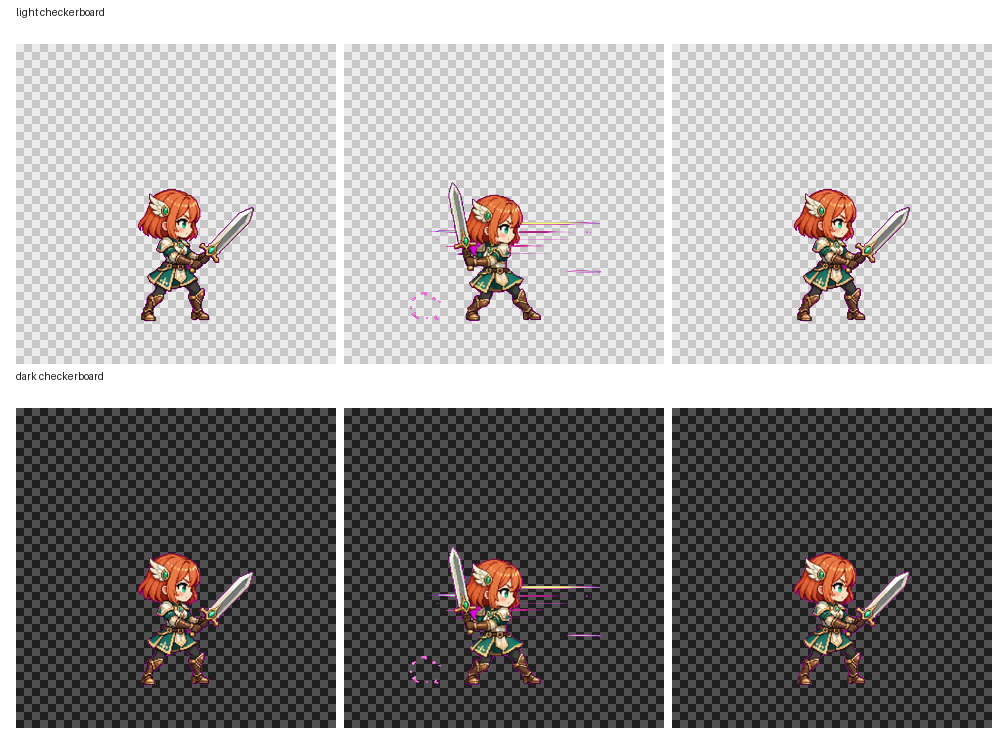
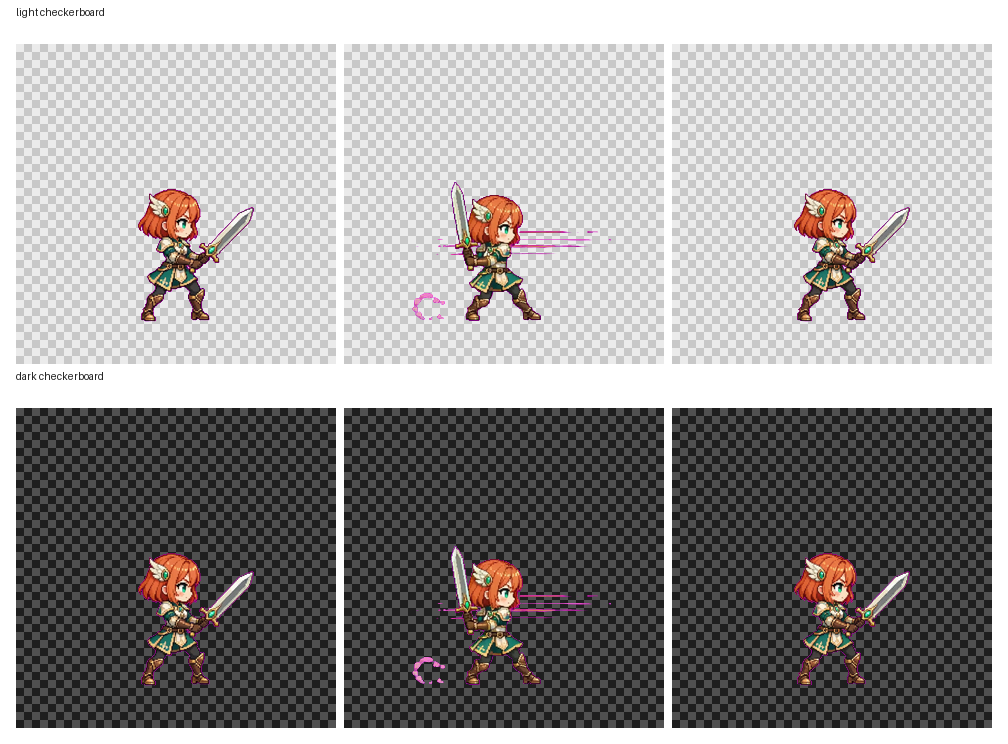
Docs & heroes: loop-passing chibi hero, pixel export demo, and Batch 2 flags
Updates EN/ZH-TW READMEs and SKILL.md with --loop, --keep-interior-key,
low-saturation behavior, --pixel/--sprite/--mp4, and real stdout samples.
Official final.gif masters remain unchanged.

diff --git a/README.md b/README.md
@@ -22,7 +22,7 @@ python scripts/vgs.py make <video> --out <new-dir>
 
 ![Transparent chibi dash GIF](examples/chibi-running-dash/hero.gif)
 
-The still is a local `vgs make` result on a light and a dark checkerboard. The GIF is transparent: the background you see on GitHub is the page color, not a studio floor. Magenta streaks in the attack frames are sword-trail effects, not leftover backdrop. Loop measurement on this source still fails the speed check; it is not claimed to be visually seamless.
+The still is a local `vgs make` result on a light and a dark checkerboard. The GIF is auto-trimmed to a natural return point (90 frames / 3.75 s), so `loop` measurement passes; visual motion and seamlessness still need a human look. The background on GitHub is the page color, not a studio floor.
 
 ## How it works
 
@@ -56,11 +56,12 @@ Successful local run of `python scripts/vgs.py make examples/chibi-running-dash/
 
 ```text
 已去背，鍵色 #FC01F9（容差 0.2，柔化 0.18，信心 1.000）。
-色鍵只移除與邊框連通的背景；主體內若有相同顏色會保留。
-尺寸 320×320；93 幀，3.87 秒，0.72 MB。（預設寬度 320）
-尾端 trim：原長 6.04s，新長 3.88s；來源 3.88 到 6.04s 已裁切，保留約 0.42s guard；最後移動幀 3.42s。
-QA FAIL；pops WARN: Small transient pop scan; inspect in context；loop FAIL: Loop position and speed: speed mismatch
-loop FAIL：speed mismatch；輸出 /tmp/chibi-gif/animation.gif
+警告：內部鍵色區最大比例 0.0465，第 54 幀；如需保留請加 --keep-interior-key。
+border_opaque_max 0.0000；key_share_max 0.0000（第 0 幀）。
+尺寸 320×320；90 幀，3.75 秒，0.70 MB。（預設寬度 320）
+尾端 trim：原長 6.04s，新長 3.75s；來源 3.75 到 6.04s 已裁切，保留約 0.29s guard；最後移動幀 3.42s。
+QA WARN；pops WARN: Small transient pop scan; inspect in context
+loop 量測通過（未經視覺核准）；輸出 /tmp/chibi-gif/animation.gif
 視覺核准：未評估，需人看。
 ```
 
@@ -69,6 +70,17 @@ If `--out` already has files, the command writes nothing and explains what to do
 ```text
 輸出目錄 /tmp/vgs-occupied 非空；不會寫入或刪除檔案。請改用一個新的空目錄，例如 --out /tmp/vgs-new-output。
 ```
+
+
+### Pixel export
+
+```sh
+python scripts/vgs.py make examples/chibi-running-dash/source.mp4 --pixel --sprite --mp4 --out /tmp/chibi-pixel
+```
+
+![Pixel art demo](examples/chibi-running-dash/hero-pixel.gif)
+
+`--pixel` uses a 96-pixel grid, 32 colors and integer nearest-neighbor scaling. Set `--pixel-width`, `--pixel-scale` and `--colors` to customize it. `--sprite` exports frames and sheets at GIF output size; engine validation is not performed. `--mp4` composites onto #141820 and repeats complete loops; use `--loop-count` to set repetitions. The default aims for 8–15 seconds when possible. `--loop auto` searches a natural trim; `--loop crossfade` explicitly blends the end; `--loop off` uses ordinary tail trimming. Auto-key requires a flat border and saturation `(max-min)/max >= 0.35`; low-saturation backgrounds stay opaque unless you explicitly provide `--key HEX`. Global keying can remove enclosed key-colored artwork; the warning identifies it, and `--keep-interior-key` preserves it. `vgs qa` checks both border opacity and remaining key colors. Visual approval remains necessary.
 
 ## Measured delivery QA
 

diff --git a/README.zh-TW.md b/README.zh-TW.md
@@ -22,7 +22,7 @@ python scripts/vgs.py make <video> --out <new-dir>
 
 ![透明 Q 版前衝 GIF](examples/chibi-running-dash/hero.gif)
 
-靜態圖是本機 `vgs make` 的結果，疊在淺色與深色棋盤上。GIF 是透明的：你在 GitHub 看到的底色是頁面顏色，不是棚景。攻擊幀的洋紅線條是劍光／速度線特效，不是底板殘留。此來源的 loop 量測仍是 speed FAIL，並不宣稱視覺上無縫。
+靜態圖是本機 `vgs make` 的結果，疊在淺色與深色棋盤上。GIF 已自動裁切至自然回位點（90 幀／3.75 秒），`loop` 量測通過；但視覺動作與無縫感仍須人看核准。你在 GitHub 看到的底色是頁面顏色，不是棚景。
 
 ## 運作方式
 
@@ -56,11 +56,12 @@ flowchart LR
 
 ```text
 已去背，鍵色 #FC01F9（容差 0.2，柔化 0.18，信心 1.000）。
-色鍵只移除與邊框連通的背景；主體內若有相同顏色會保留。
-尺寸 320×320；93 幀，3.87 秒，0.72 MB。（預設寬度 320）
-尾端 trim：原長 6.04s，新長 3.88s；來源 3.88 到 6.04s 已裁切，保留約 0.42s guard；最後移動幀 3.42s。
-QA FAIL；pops WARN: Small transient pop scan; inspect in context；loop FAIL: Loop position and speed: speed mismatch
-loop FAIL：speed mismatch；輸出 /tmp/chibi-gif/animation.gif
+警告：內部鍵色區最大比例 0.0465，第 54 幀；如需保留請加 --keep-interior-key。
+border_opaque_max 0.0000；key_share_max 0.0000（第 0 幀）。
+尺寸 320×320；90 幀，3.75 秒，0.70 MB。（預設寬度 320）
+尾端 trim：原長 6.04s，新長 3.75s；來源 3.75 到 6.04s 已裁切，保留約 0.29s guard；最後移動幀 3.42s。
+QA WARN；pops WARN: Small transient pop scan; inspect in context
+loop 量測通過（未經視覺核准）；輸出 /tmp/chibi-gif/animation.gif
 視覺核准：未評估，需人看。
 ```
 
@@ -69,6 +70,17 @@ loop FAIL：speed mismatch；輸出 /tmp/chibi-gif/animation.gif
 ```text
 輸出目錄 /tmp/vgs-occupied 非空；不會寫入或刪除檔案。請改用一個新的空目錄，例如 --out /tmp/vgs-new-output。
 ```
+
+
+### 像素輸出
+
+```sh
+python scripts/vgs.py make examples/chibi-running-dash/source.mp4 --pixel --sprite --mp4 --out /tmp/chibi-pixel
+```
+
+![Pixel art demo](examples/chibi-running-dash/hero-pixel.gif)
+
+`--pixel` 預設 96 像素網格、32 色與整數最近鄰放大，可用 `--pixel-width`、`--pixel-scale`、`--colors` 調整。`--sprite` 以 GIF 輸出尺寸匯出影格和圖集，未做引擎驗證；`--mp4` 合成深色底並重複完整循環，`--loop-count` 指定次數，預設盡可能落在 8–15 秒。`--loop auto` 尋找自然裁切點，`--loop crossfade` 明確混合尾端，`--loop off` 只裁靜止尾端。自動去背需要平坦邊框且飽和度 `(max-min)/max >= 0.35`；低飽和背景保留不透明，可明確指定 `--key HEX`。全域色鍵可能挖掉封閉的同色圖案；警告列出內島，`--keep-interior-key` 可保留。`vgs qa` 檢查邊框不透明度與殘留鍵色；仍需人看核准。
 
 ## 交付品質量測
 

diff --git a/SKILL.md b/SKILL.md
@@ -173,3 +173,9 @@ For “same video/music, change only the character,” read [character-video-edi
 ## Spatial previs and paired review
 
 For interactive camera blocking, verified control ZIP to MP4, and timestamp-aligned A/B review boards, read [spatial-previs-workflow.md](references/spatial-previs-workflow.md).
+
+## Local vgs pixel and loop options
+
+`vgs make` defaults to `--loop auto`, a natural trim search; `--loop off` keeps ordinary tail trimming, while explicit `--loop crossfade` blends the ending and must be disclosed. Auto-key needs a flat border and saturation `(max-min)/max >= 0.35`; otherwise the delivery remains opaque unless `--key HEX` is given. Global keying warns about enclosed key-colored areas; `--keep-interior-key` preserves them. `vgs qa` checks border opacity and residual key share.
+
+`--pixel` uses a 96-pixel grid, 32 colors, binary alpha and integer nearest-neighbor scaling; adjust with `--pixel-width`, `--pixel-scale`, and `--colors`. `--sprite` exports at GIF output size without engine validation. `--mp4` composites on #141820 and repeats complete loops; `--loop-count` sets the count, otherwise it targets 8–15 seconds where possible. Review visually.
